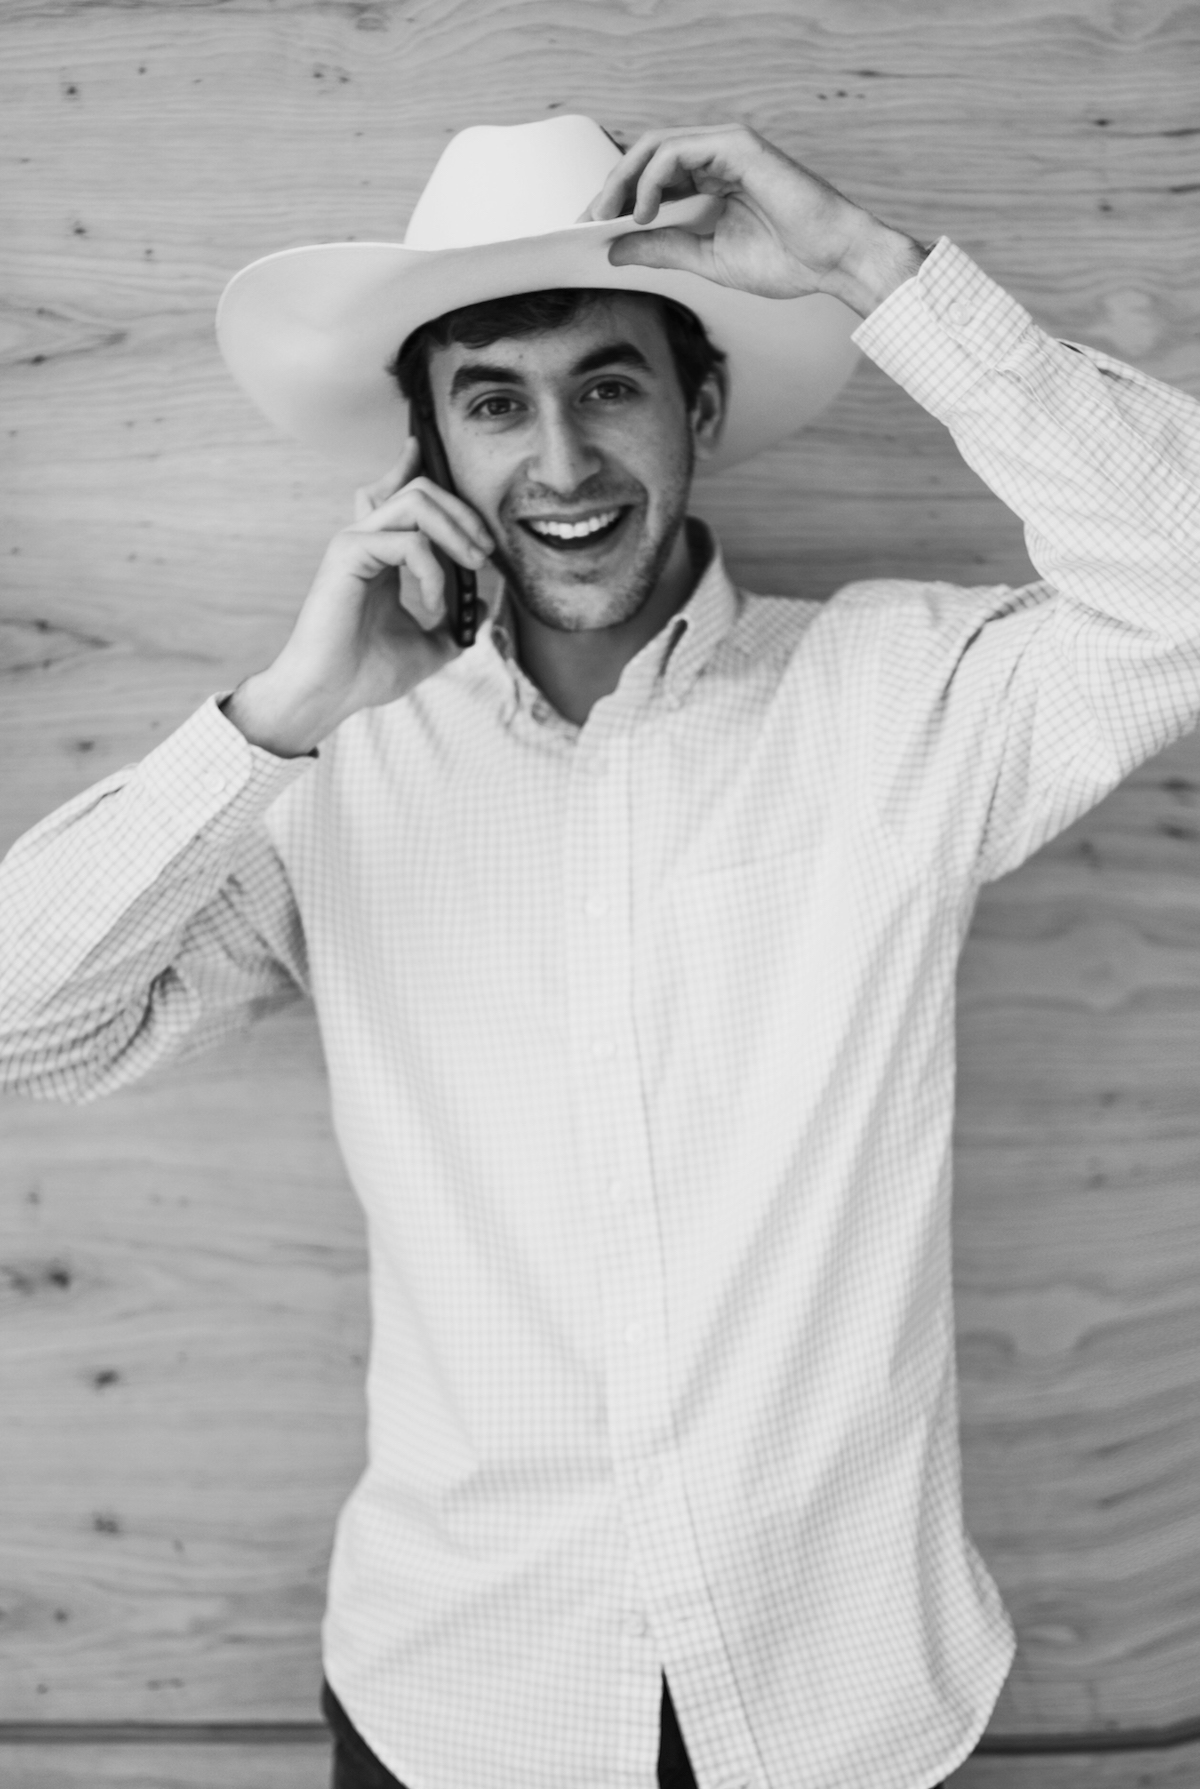
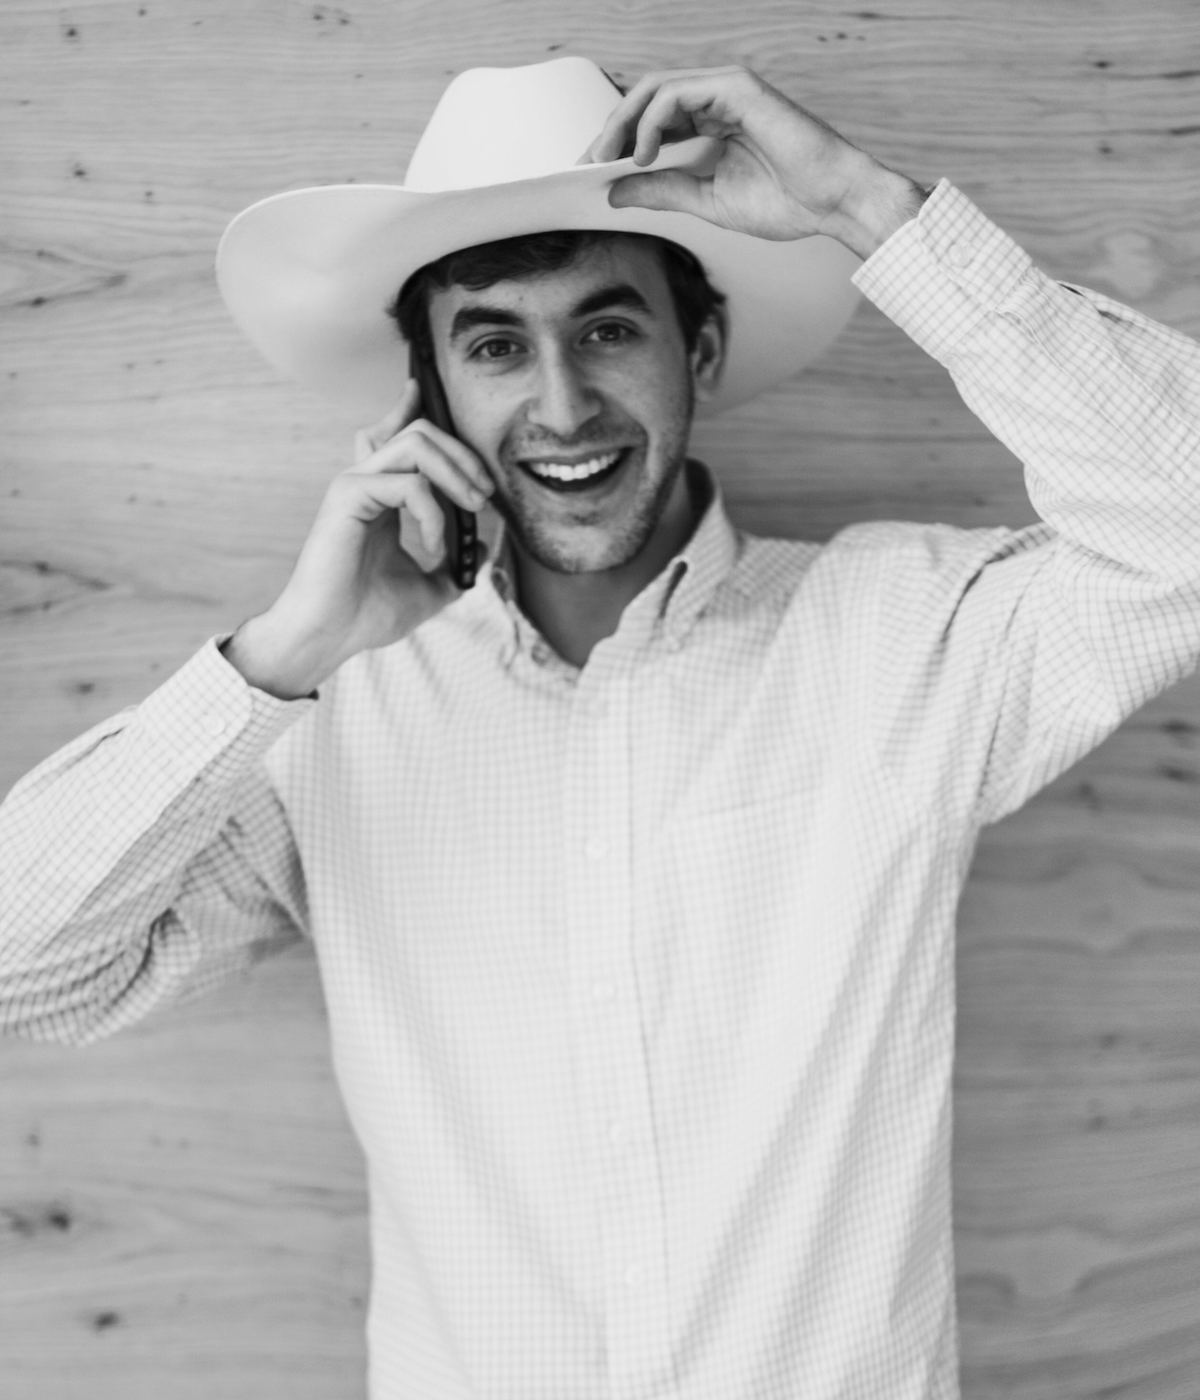
updating about

diff --git a/_sass/_pages.scss b/_sass/_pages.scss
@@ -101,7 +101,7 @@
   
 	&.about {
     .container {
-      width: $half + 15%;
+      width: $half + 25%;
       margin-top: $gutter;
     
     .page-heading {
@@ -112,6 +112,8 @@
     }
 
     .bio {
+      margin: 0 0 0 $gutter / 2;
+
       p {
         line-height: $base-line-height;
       }
@@ -126,7 +128,7 @@
     }
 
 		.bio-image {
-      margin: 0 $gutter * 2 0 0;
+      margin: 0 $gutter / 2 0 0;
       
       @media #{$break-large} {
         & {

diff --git a/_layouts/about.html b/_layouts/about.html
@@ -10,7 +10,7 @@ class: page
       <img src="{{ page.bio_image | prepend: site.url }}">
     </figure>
 
-    <div class="bio grid-two-half">
+    <div class="bio grid-one-half">
       {{ content }}
     </div>  
 
